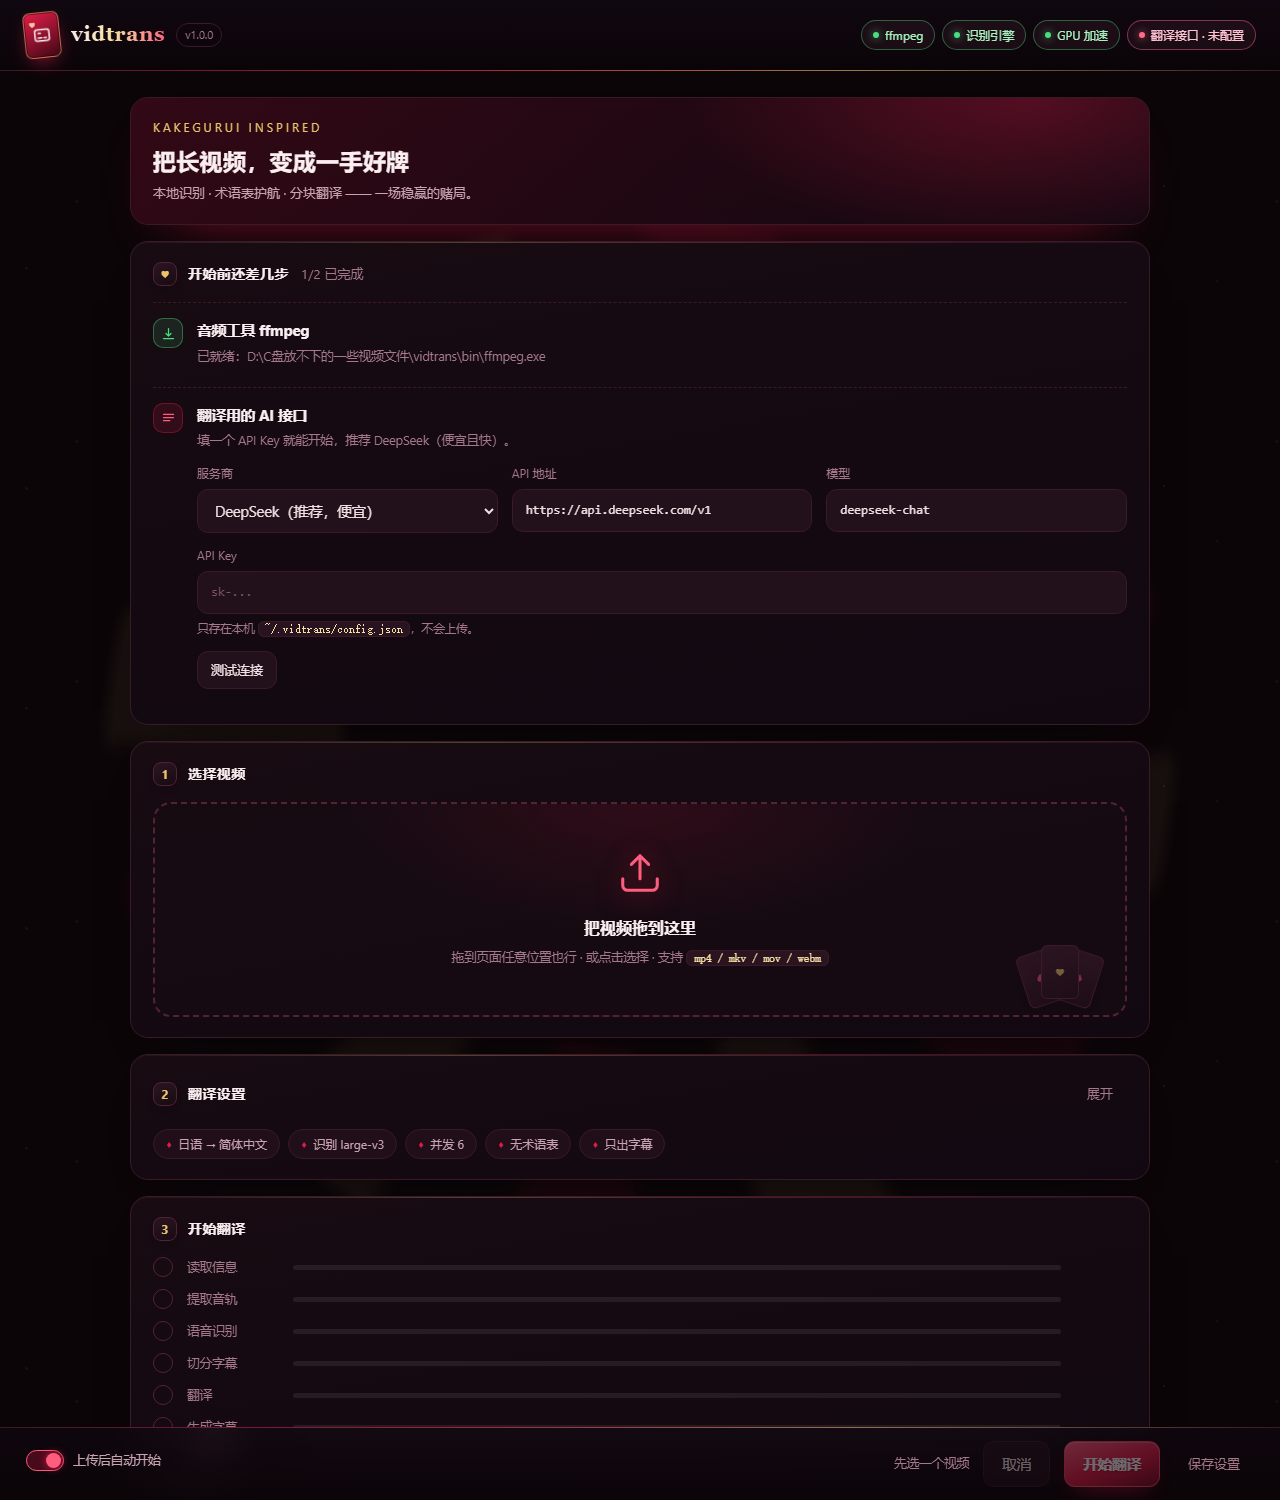
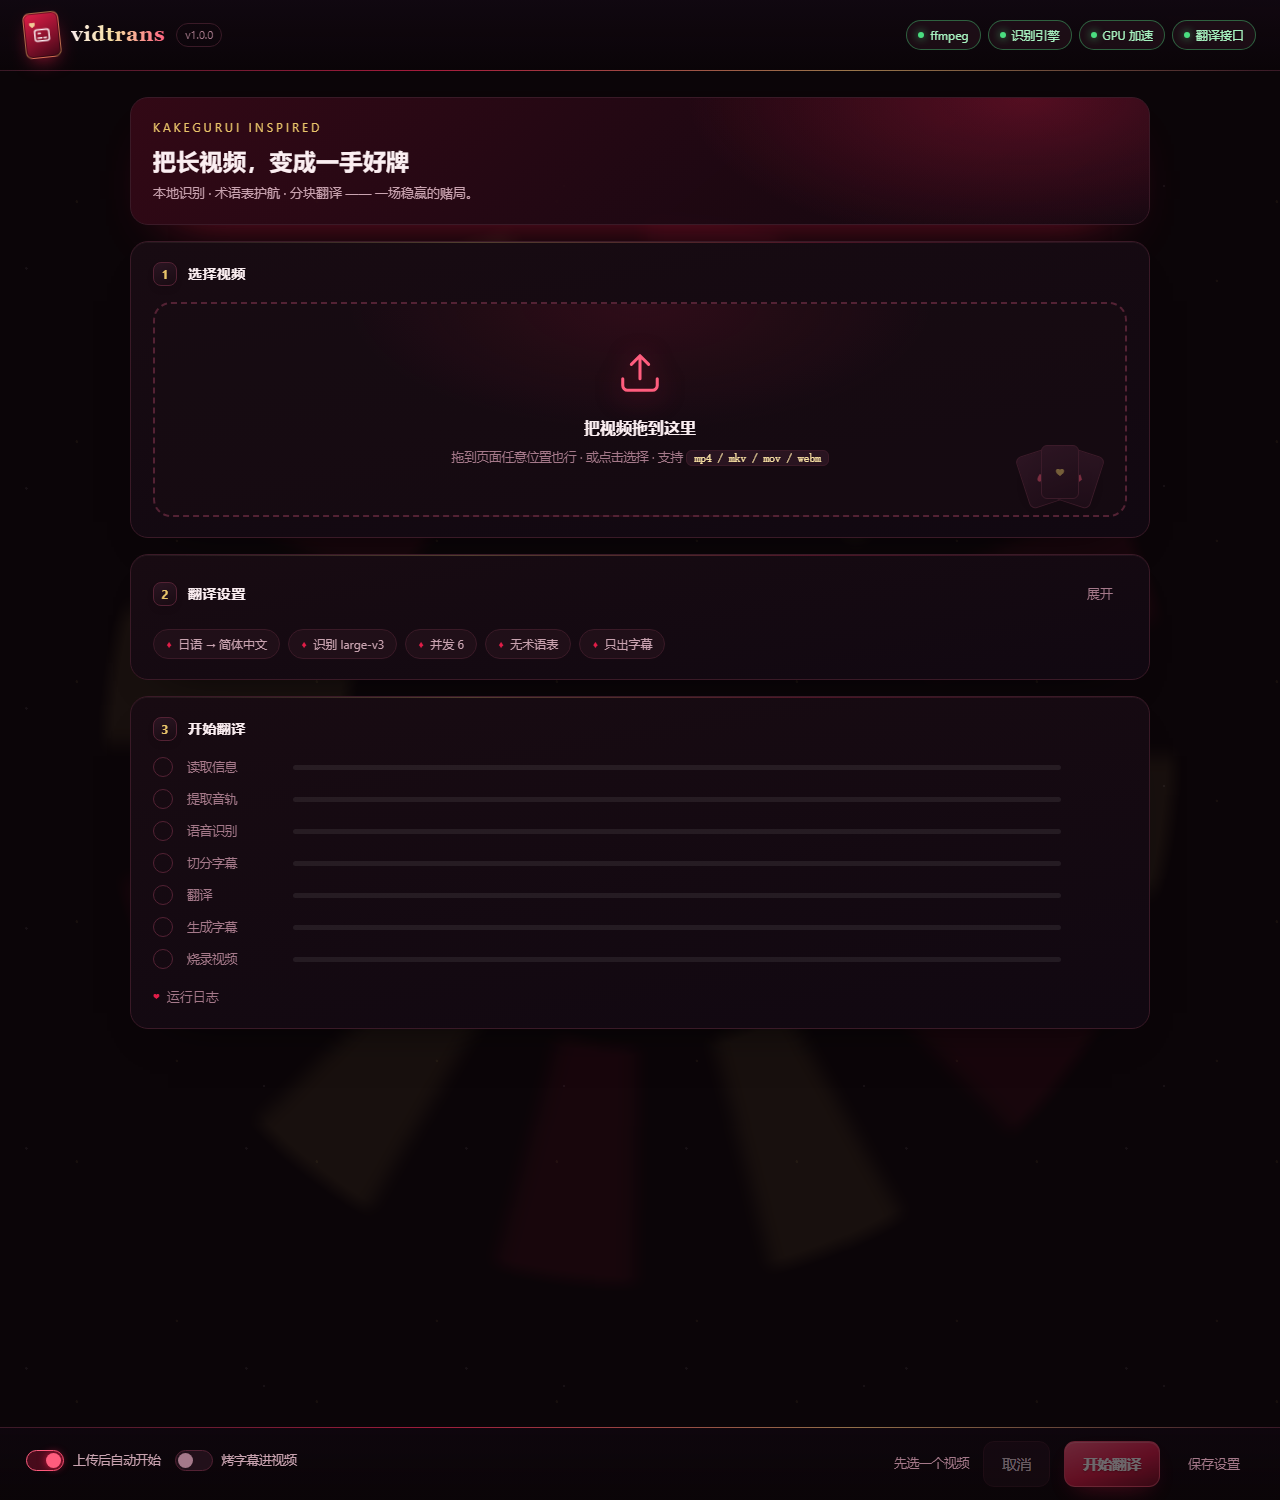
fix(burn): 修复烧录字幕的两个真实缺陷，并把开关提到常驻操作条
问题一：ff.burn 会把工作目录切到字幕所在目录（ass= 过滤器按 cwd 找文件），
但 src/out 没有先转绝对路径，相对路径切目录后失效，报 No such file or directory。

问题二：烧录输出名用了 {basename}.mp4，而上传的视频本身就叫 xxx.mp4，
输入输出变成同一个文件，ffmpeg 直接报 same as Input 并退出。
改为 {basename}.subtitled.mp4，并加了同名兜底。

其他：
- 「烤字幕进视频」开关从折叠的设置面板提到常驻操作条，与设置里的下拉双向同步，
  开启时给出耗时提示
- /api/jobs 增加 error 字段，排查失败原因不用再翻日志
- test_server 默认开启 burn 并断言 mp4 产物，防止回归
- 刷新 docs/screenshot.png

diff --git a/vidtrans/web/index.html b/vidtrans/web/index.html
@@ -636,7 +636,7 @@
           <label>输出</label>
           <select id="burn">
             <option value="false">只出字幕文件</option>
-            <option value="true">字幕 + 带字幕的视频</option>
+            <option value="true">字幕 + 烤进视频</option>
           </select>
         </div>
       </div>
@@ -700,6 +700,10 @@
   <label class="switch" title="上传完成后自动开始">
     <input type="checkbox" id="autoStart" checked><span class="track"></span>
     <span>上传后自动开始</span>
+  </label>
+  <label class="switch" id="burnWrap" title="把字幕直接烤进画面，额外输出一个带字幕的 mp4（耗时较长）">
+    <input type="checkbox" id="burnSwitch"><span class="track"></span>
+    <span>烤字幕进视频</span>
   </label>
   <div class="grow"></div>
   <span class="hintline" id="actionHint">先选一个视频</span>
@@ -838,6 +842,13 @@ function refreshSummary() {
 }
 function providerReady() {
   return !!((el("api_key").value || "").trim() && (el("base_url").value || "").trim());
+}
+function syncBurn() {
+  var on = el("burn") && el("burn").value === "true";
+  if (el("burnSwitch")) el("burnSwitch").checked = on;
+  if (el("burnWrap")) el("burnWrap").title = on
+    ? "已开启：会额外输出一个带字幕的 mp4（2 小时视频约需 30 分钟）"
+    : "把字幕直接烤进画面，额外输出一个带字幕的 mp4（耗时较长）";
 }
 function setHint(t) { if (el("actionHint")) el("actionHint").textContent = t; }
 
@@ -1013,7 +1024,8 @@ function loadConfig() {
     setv("asr_prompt", c.asr_prompt || "");
     setv("concurrency", c.concurrency || 6);
     setv("chunk_size", c.chunk_size || 120);
-    setv("burn", String(!!c.burn));
+    el("burn").value = String(!!c.burn);
+    syncBurn();
     setv("glossary", c.glossary || "");
     setv("extra_rules", c.extra_rules || "");
     var p = c.provider || {};
@@ -1303,6 +1315,21 @@ function bindUI() {
   el("autoStart").checked = localStorage.getItem("vt_auto") !== "0";
   el("autoStart").addEventListener("change", function () {
     localStorage.setItem("vt_auto", el("autoStart").checked ? "1" : "0");
+  });
+
+  // 「烤字幕进视频」：操作条上的开关与设置里的下拉双向同步
+  syncBurn();
+  el("burnSwitch").addEventListener("change", function () {
+    el("burn").value = this.checked ? "true" : "false";
+    syncBurn();
+    refreshSummary();
+    if (this.checked) {
+      toast("已开启：会额外输出带字幕的 mp4（耗时较长）", "ok");
+    }
+  });
+  el("burn").addEventListener("change", function () {
+    syncBurn();
+    refreshSummary();
   });
 }
 

diff --git a/vidtrans/ffmpeg.py b/vidtrans/ffmpeg.py
@@ -22,14 +22,25 @@ def extract_audio(cfg, src, dst_wav, sample_rate=16000):
 
 def burn(cfg, src, ass_path, out_path, on_progress=None, cancel=None,
          codec=None, cq=None):
-    """把 ASS 烧进视频。codec 支持 h264_nvenc / libx264。"""
+    """把 ASS 烧进视频。codec 支持 h264_nvenc / libx264。
+
+    注意：ass 过滤器按「当前工作目录」找文件，所以我们会切到 ass 所在目录，
+    因此 src / out_path / ass_path 必须先转成绝对路径，否则相对路径会失效。
+    """
     ff = ffmpeg_path(cfg)
     if not ff:
         raise ToolError("找不到 ffmpeg")
+    src = os.path.abspath(src)
+    ass_path = os.path.abspath(ass_path)
+    out_path = os.path.abspath(out_path)
+    if not os.path.exists(src):
+        raise ToolError("找不到视频文件：" + src)
+    if not os.path.exists(ass_path):
+        raise ToolError("找不到字幕文件：" + ass_path)
     codec = codec or cfg.get("burn_codec", "h264_nvenc")
     cq = cq or cfg.get("burn_cq", 26)
 
-    workdir = os.path.dirname(os.path.abspath(ass_path))
+    workdir = os.path.dirname(ass_path)
     ass_name = os.path.basename(ass_path)
 
     vf = f"ass={ass_name}"

diff --git a/test/test_server.py b/test/test_server.py
@@ -106,7 +106,7 @@ def main():
     ok("缩略图生成", thumb_ok)
 
     opts = {"src_lang": "ja", "dst_lang": "zh", "asr_model": "tiny",
-            "concurrency": 2, "chunk_size": 40, "burn": False,
+            "concurrency": 2, "chunk_size": 40, "burn": True,
             "asr_prompt": "廻珠、廻想残滓、共闘キャラクター、虎杖悠仁、伏黒恵"}
     if FFMPEG_DIR:
         opts["ffmpeg_dir"] = FFMPEG_DIR
@@ -144,6 +144,13 @@ def main():
         ok("打包下载 zip", len(z) > 200 and z[:2] == b"PK", len(z))
     except Exception as e:
         ok("打包下载 zip", False, e)
+
+    # 烧录：输出名必须与输入不同（否则 ffmpeg 报 same as Input）
+    try:
+        mp4 = fetch(f"/api/result?job={jid}&name=mp4", timeout=300)
+        ok("烧录输出 mp4", len(mp4) > 100000, len(mp4))
+    except Exception as e:
+        ok("烧录输出 mp4", False, e)
 
     return finish()
 

diff --git a/vidtrans/pipeline.py b/vidtrans/pipeline.py
@@ -97,7 +97,11 @@ class Pipeline:
         # 7) 可选烧录
         if cfg.get("burn") and meta["has_video"]:
             self.progress.stage("burn", "烧录字幕到视频")
-            out_mp4 = os.path.join(self.job_dir, f"{basename}.mp4")
+            # 输出名必须和输入不同：上传的 mp4 本身就叫 xxx.mp4，
+            # 若再输出 xxx.mp4 会撞上输入文件（ffmpeg 会直接报 same as Input）。
+            out_mp4 = os.path.join(self.job_dir, f"{basename}.subtitled.mp4")
+            if os.path.abspath(out_mp4) == os.path.abspath(src_path):
+                out_mp4 = os.path.join(self.job_dir, f"{basename}.subtitled.1.mp4")
             ff.burn(cfg, src_path, paths["ass"], out_mp4, cancel=self.cancel)
             paths["mp4"] = out_mp4
             self.progress.log("烧录完成")

diff --git a/vidtrans/server.py b/vidtrans/server.py
@@ -207,6 +207,7 @@ class Handler(BaseHTTPRequestHandler):
             with JOBS_LOCK:
                 items = [{"id": j["id"], "filename": j["filename"],
                           "status": j["status"], "created": j["created"],
+                          "error": j.get("error"),
                           "result": j["result"]} for j in
                          sorted(JOBS.values(), key=lambda x: -x["created"])]
             return self._json(items)
